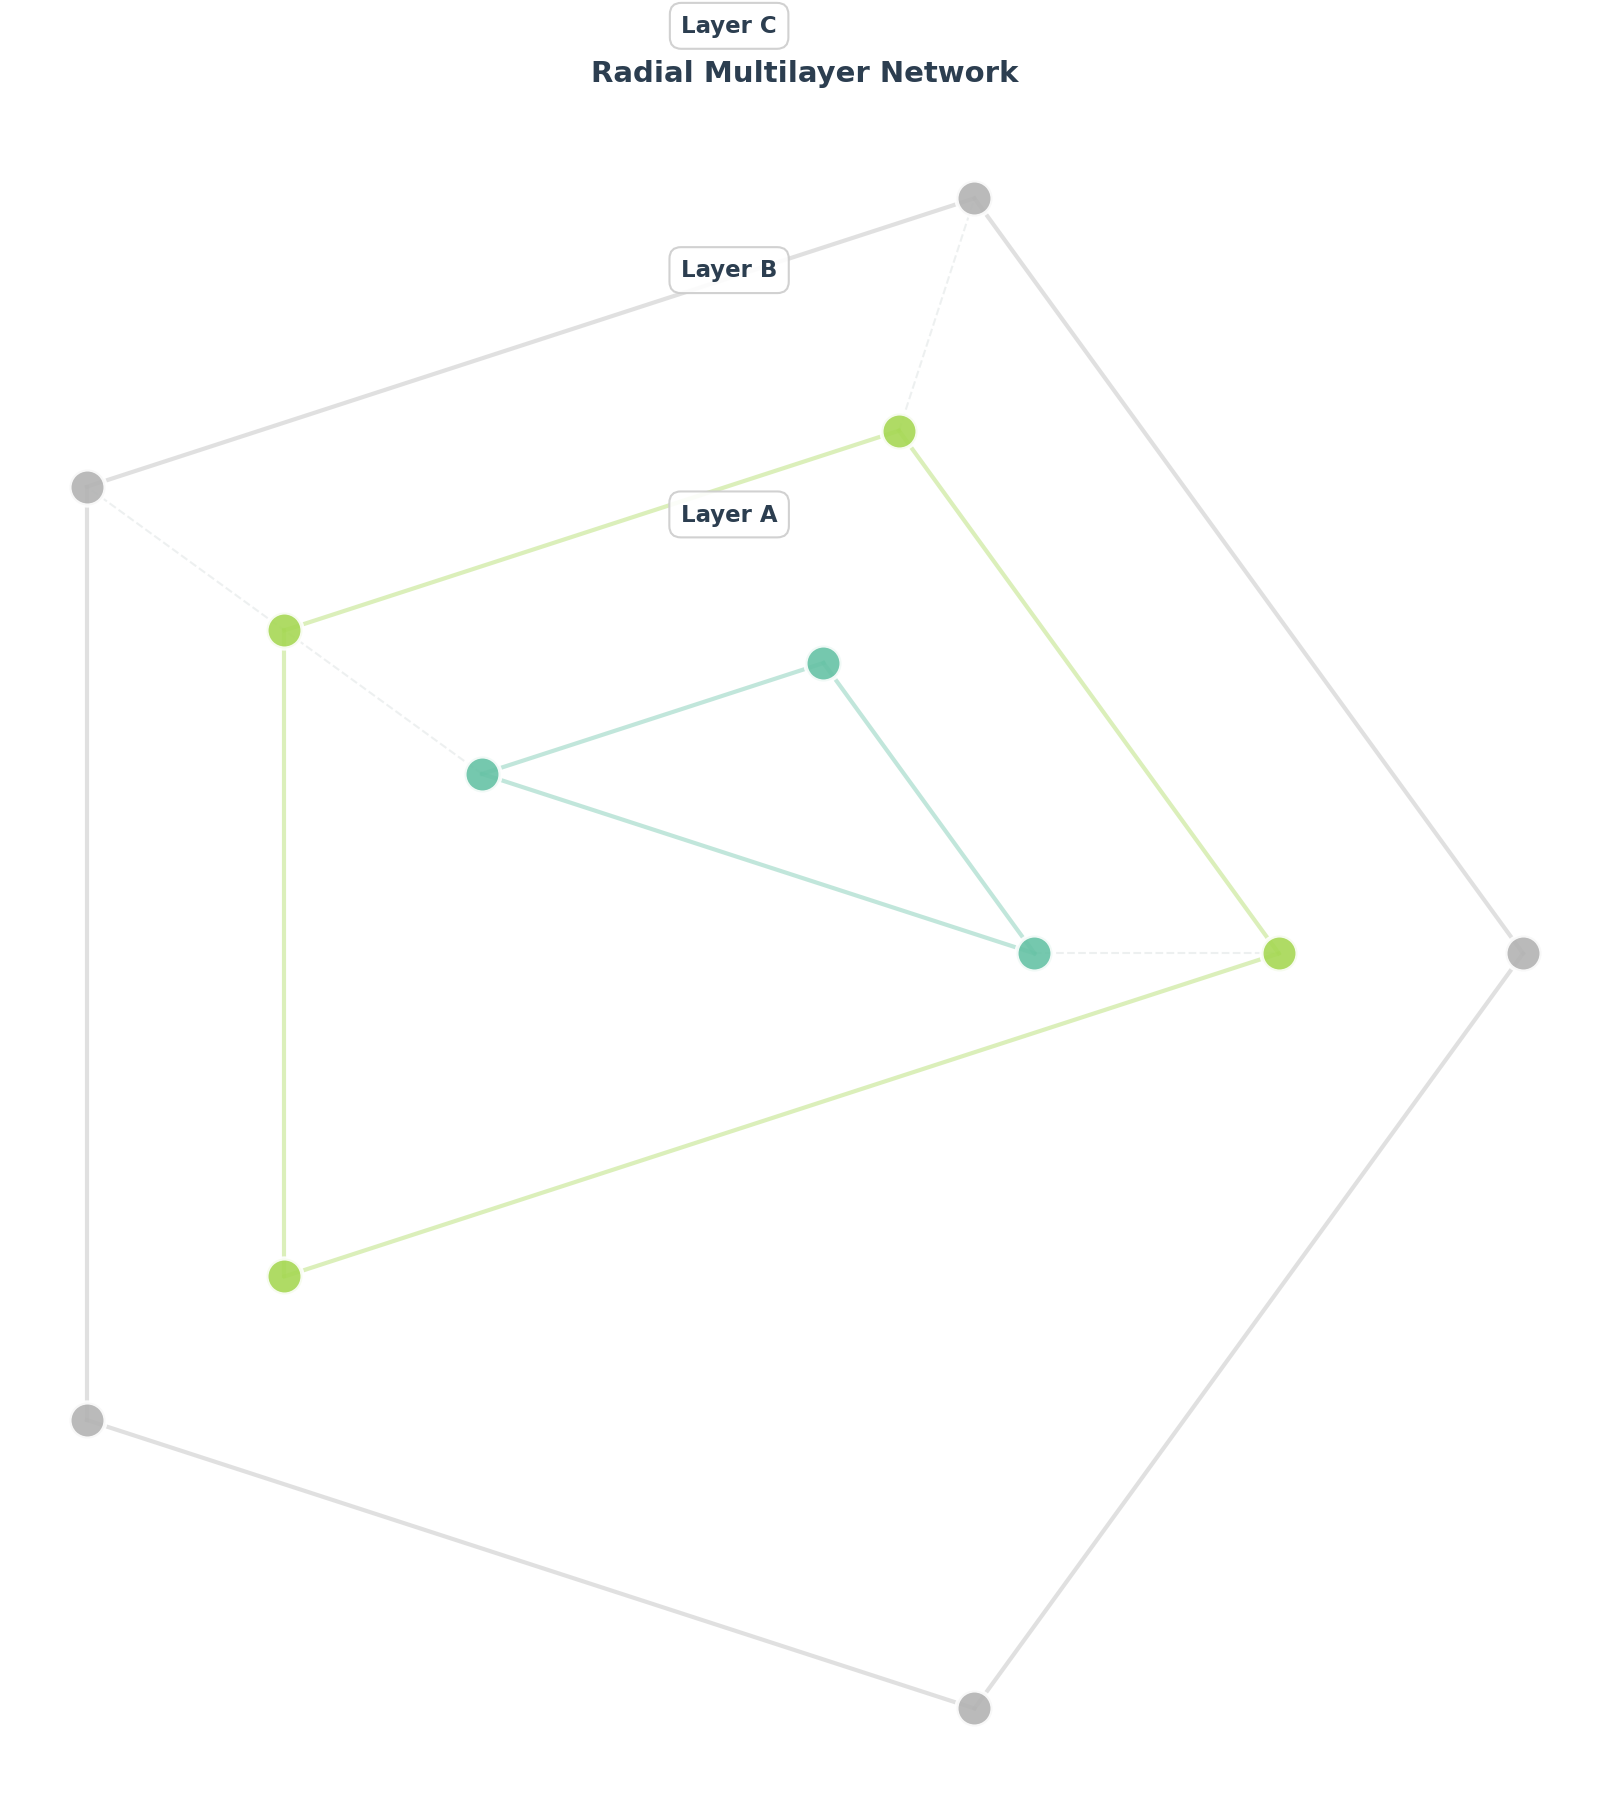
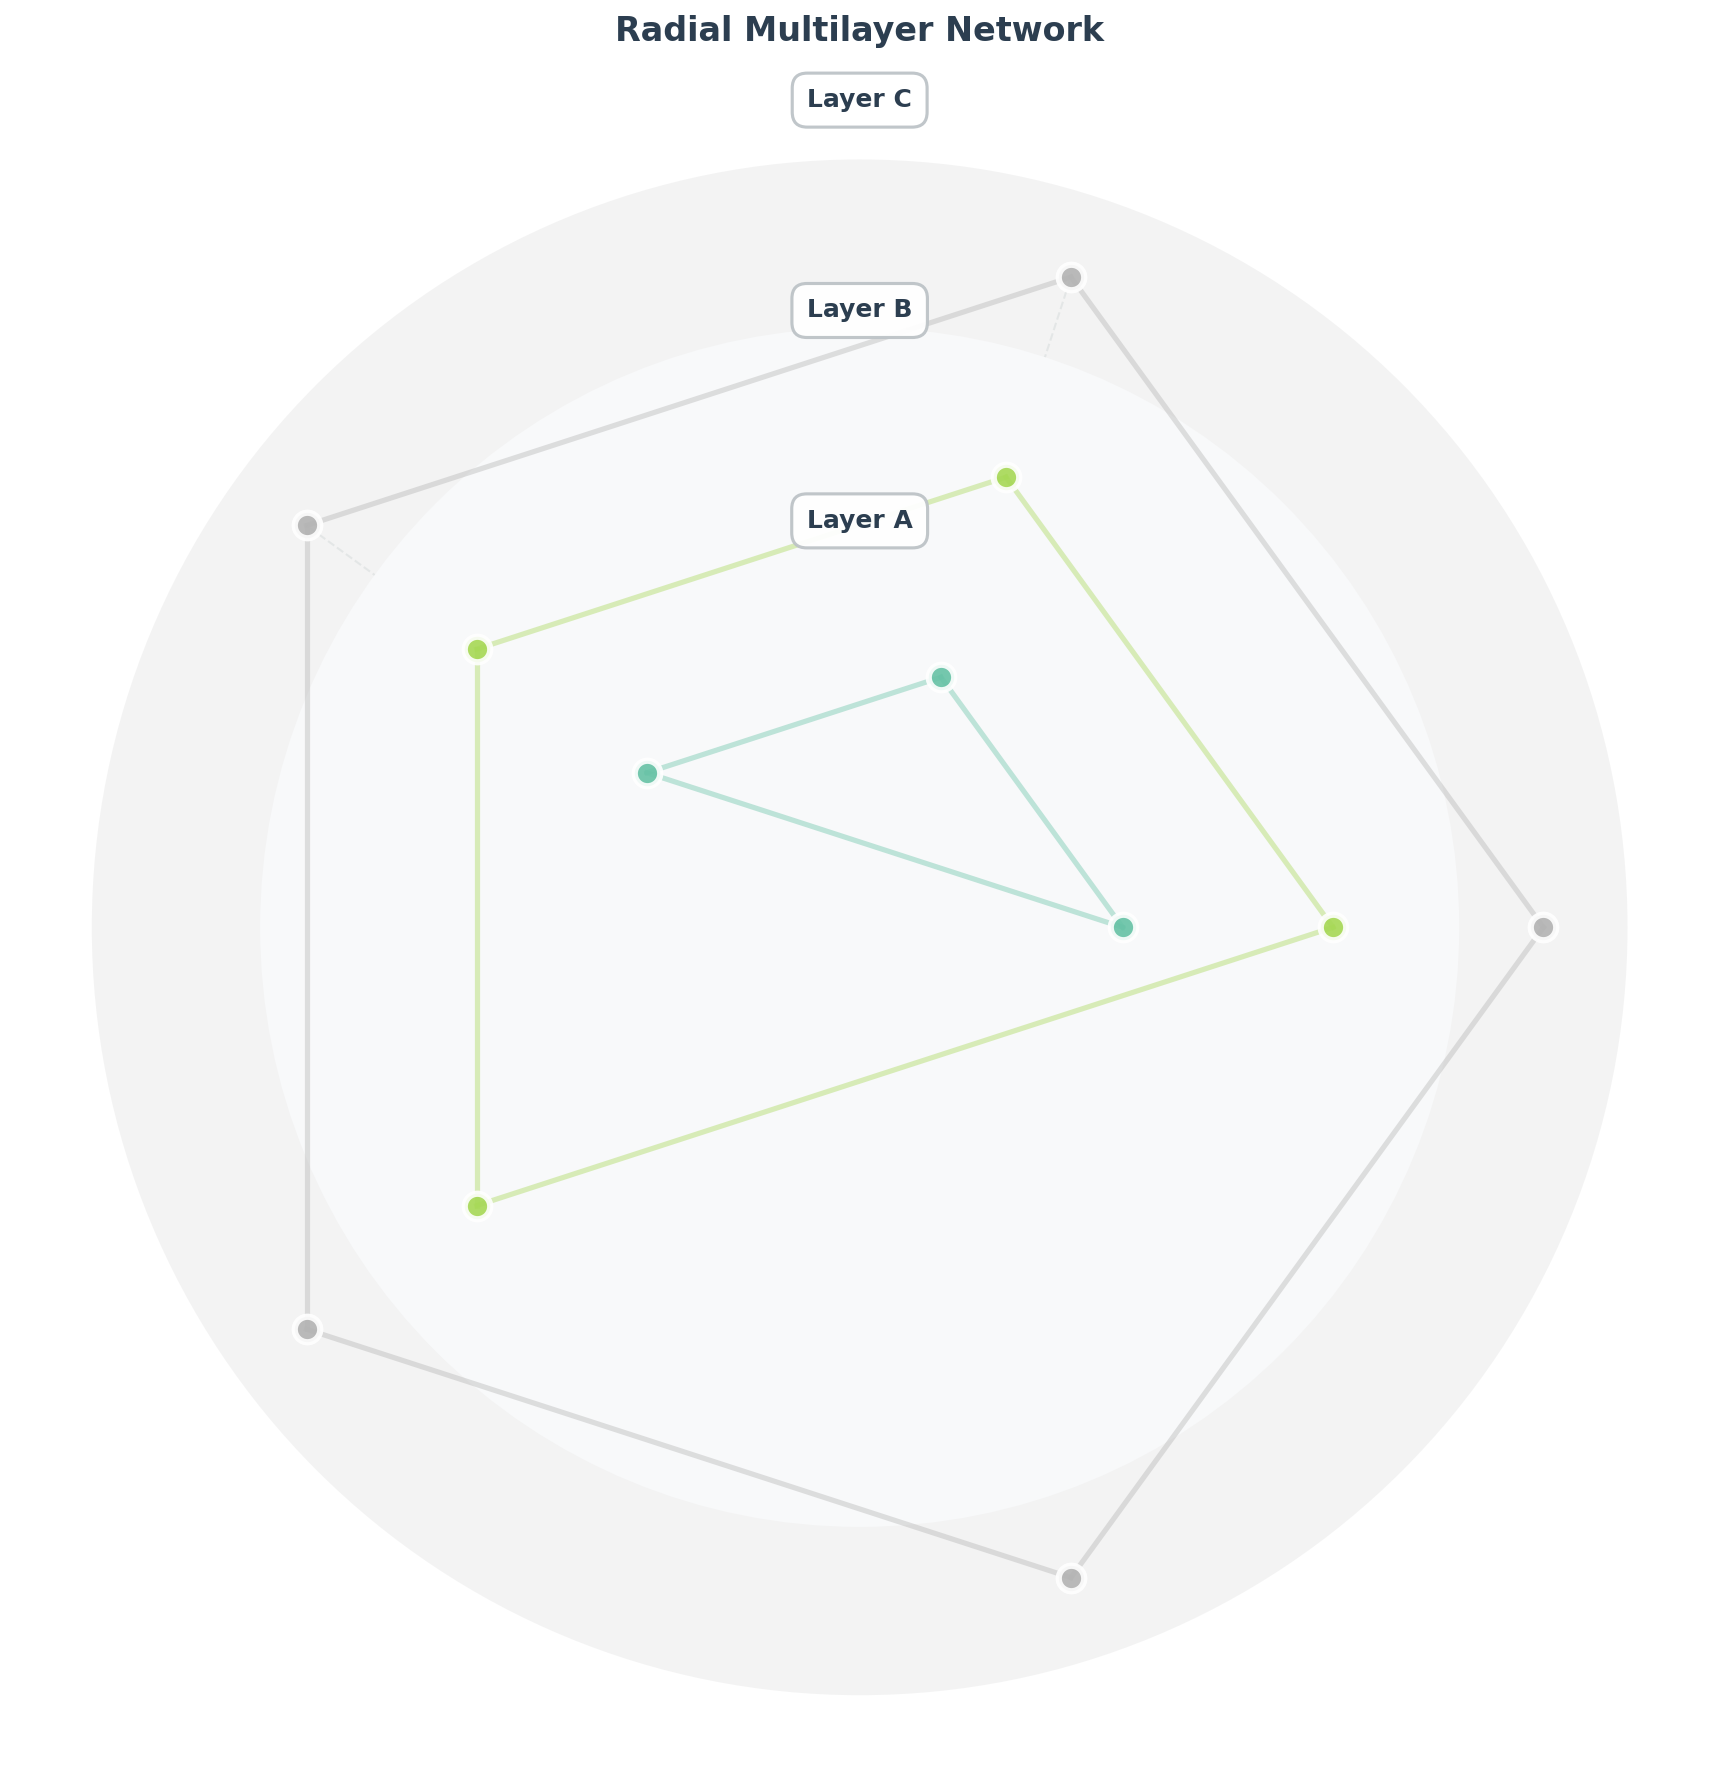
Add bigger nodes and semi-transparent layer bands to radial layout

diff --git a/py3plex/visualization/multilayer.py b/py3plex/visualization/multilayer.py
@@ -1433,10 +1433,12 @@ def plot_radial_layers(
     multilayer_network,
     base_radius: float = 1.0,
     radius_step: float = 1.0,
-    node_size: int = 50,
+    node_size: int = 300,
     draw_inter_layer_edges: bool = True,
     figsize: Tuple[float, float] = (12, 12),
     edge_alpha: float = 0.5,
+    draw_layer_bands: bool = True,
+    band_alpha: float = 0.15,
     **kwargs
 ):
     """Create a radial/concentric visualization with layers as rings.
@@ -1448,10 +1450,12 @@ def plot_radial_layers(
         multilayer_network: A MultiLayerNetwork instance
         base_radius: Radius of the innermost layer
         radius_step: Distance between consecutive layer rings
-        node_size: Size of nodes
+        node_size: Size of nodes (default: 300 for better visibility)
         draw_inter_layer_edges: If True, draw edges between layers
         figsize: Figure size as (width, height) tuple
         edge_alpha: Transparency for edges
+        draw_layer_bands: If True, draw semi-transparent circular bands around layers
+        band_alpha: Transparency for layer bands (default: 0.15)
         **kwargs: Additional drawing parameters
         
     Returns:
@@ -1515,12 +1519,40 @@ def plot_radial_layers(
     fig.patch.set_facecolor('white')
     ax.set_facecolor('#f8f9fa')
     
-    # Use professional color palette
+    # Use professional color palette with improved color handling
     try:
-        import matplotlib.cm as cm
-        color_palette = cm.get_cmap('Set2')
-    except:
-        color_palette = None
+        color_palette = plt.colormaps.get_cmap('Set2')
+    except (AttributeError, KeyError):
+        try:
+            import matplotlib.cm as cm
+            color_palette = cm.get_cmap('Set2')
+        except:
+            color_palette = None
+    
+    # Draw semi-transparent circular bands around each layer for visual grouping
+    if draw_layer_bands and MATPLOTLIB_PATCHES_AVAILABLE:
+        for layer_idx, layer_name in enumerate(layer_names):
+            radius = base_radius + layer_idx * radius_step
+            band_width = radius_step * 0.4  # Band extends ±40% of step on each side
+            
+            if color_palette:
+                layer_color = color_palette(layer_idx / max(len(layer_names) - 1, 1))
+            else:
+                layer_color = colors.colors_default[layer_idx % len(colors.colors_default)]
+            
+            # Create a circular band around this layer
+            circle = Circle((0, 0), radius + band_width, 
+                          fill=True, facecolor=layer_color, 
+                          edgecolor='none', alpha=band_alpha, zorder=0)
+            ax.add_patch(circle)
+            
+            # Add inner circle to create ring effect
+            if radius > band_width:
+                inner_circle = Circle((0, 0), radius - band_width,
+                                    fill=True, facecolor=ax.get_facecolor(),
+                                    edgecolor='none', zorder=0.5)
+                ax.add_patch(inner_circle)
+
     
     # Draw intra-layer edges with improved styling
     for layer_idx, layer_name in enumerate(layer_names):
@@ -1535,7 +1567,7 @@ def plot_radial_layers(
                 x_coords = [positions[(u, layer_name)][0], positions[(v, layer_name)][0]]
                 y_coords = [positions[(u, layer_name)][1], positions[(v, layer_name)][1]]
                 ax.plot(x_coords, y_coords, color=layer_color, 
-                       alpha=edge_alpha, linewidth=2, zorder=1)
+                       alpha=edge_alpha, linewidth=2.5, zorder=1)
     
     # Draw inter-layer edges if requested with improved styling
     if draw_inter_layer_edges:
@@ -1547,7 +1579,7 @@ def plot_radial_layers(
                        alpha=edge_alpha * 0.4, linewidth=1, 
                        linestyle='--', zorder=0)
     
-    # Draw nodes with improved styling
+    # Draw nodes with improved styling and bigger sizes
     for layer_idx, layer_name in enumerate(layer_names):
         if color_palette:
             layer_color = color_palette(layer_idx / max(len(layer_names) - 1, 1))
@@ -1557,34 +1589,30 @@ def plot_radial_layers(
         for node in nodes_per_layer[layer_name]:
             if (node, layer_name) in positions:
                 x, y = positions[(node, layer_name)]
-                ax.scatter(x, y, s=node_size * 2, c=[layer_color], 
+                # Draw node with white border for better visibility
+                ax.scatter(x, y, s=node_size, c=[layer_color], 
                           alpha=0.9, edgecolors='white', 
-                          linewidths=2, zorder=2)
+                          linewidths=3, zorder=3)
     
     # Add layer labels with improved styling
     for layer_idx, layer_name in enumerate(layer_names):
         radius = base_radius + layer_idx * radius_step
-        ax.text(0, radius + 0.4, f"Layer {layer_name}", 
-               ha='center', va='bottom', fontsize=11, 
+        ax.text(0, radius + 0.5, f"Layer {layer_name}", 
+               ha='center', va='bottom', fontsize=12, 
                weight='bold', color='#2c3e50',
-               bbox=dict(boxstyle='round,pad=0.5', 
+               bbox=dict(boxstyle='round,pad=0.6', 
                         facecolor='white', 
-                        edgecolor='#cccccc',
-                        alpha=0.9))
+                        edgecolor='#bdc3c7',
+                        alpha=0.95,
+                        linewidth=1.5))
     
     # Add title with improved styling
     ax.set_title("Radial Multilayer Network",
-                fontsize=14, fontweight='bold', 
+                fontsize=16, fontweight='bold', 
                 pad=20, color='#2c3e50')
     
     ax.set_aspect('equal')
     ax.axis('off')
-    
-    plt.tight_layout()
-    return fig
-    ax.set_aspect('equal')
-    ax.axis('off')
-    ax.set_title("Radial Multilayer Visualization")
     
     plt.tight_layout()
     return fig
